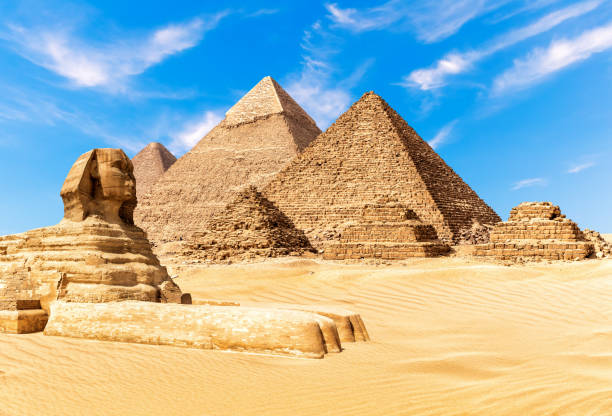
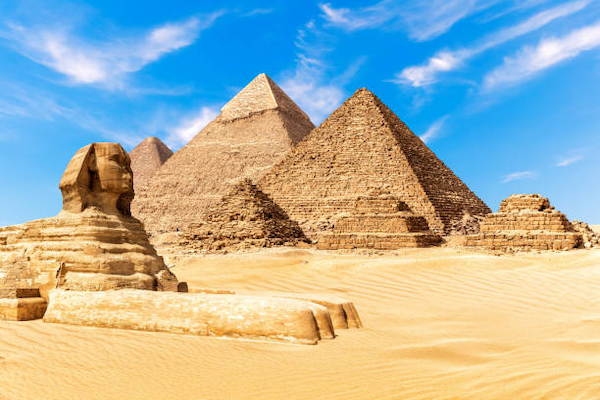
+ страница авторизации при нажатии на профиль и на мои маршруты + одинаковые размеры картинок

diff --git a/templates/base.html b/templates/base.html
@@ -12,7 +12,7 @@
  <body>
  <header>
      <nav class="navbar navbar-expand-lg navbar-light bg-light">
-  <a class="navbar-brand">TravelLife</a>
+  <a class="navbar-brand" href="/">TravelLife</a>
   <button class="navbar-toggler" type="button" data-toggle="collapse" data-target="#navbarSupportedContent" aria-controls="navbarSupportedContent" aria-expanded="false" aria-label="Toggle navigation">
     <span class="navbar-toggler-icon"></span>
   </button>

diff --git a/templates/plans.html b/templates/plans.html
@@ -4,6 +4,6 @@
 {% block content %}
 <div>
     <h1 align="center">У вас пока ни одного маршрута(</h1>
-    <a href="create_plan">Хотите создать?</a>
 </div>
+<a class="btn btn-primary" href="create_plan">Новый маршрут</a>
 {% endblock %}

diff --git a/main.py b/main.py
@@ -1,11 +1,13 @@
+import datetime
 from flask import Flask, render_template, redirect
 from data import db_session
 from data.users import User
-from flask_login import LoginManager, login_user, login_required, logout_user
+from flask_login import LoginManager, login_user, login_required, logout_user, current_user
 from forms.user import RegisterForm, LoginForm
 
 
 app = Flask(__name__)
+app.config['PERMANENT_SESSION_LIFETIME'] = datetime.timedelta(days=365)
 app.config['SECRET_KEY'] = 'yandexlyceum_secret_key'
 login_manager = LoginManager()
 login_manager.init_app(app)
@@ -51,15 +53,20 @@ def choose_countries():
 
 @app.route('/country/<name>')
 def country(name):
-    return render_template(f'{name}.html', title=str(name))
+    print(name)
+    return render_template(f'{name}.html', title=name)
 
 @app.route('/my_profile')
 def my_profile():
-    return 'Это профиль'
+    if current_user.is_authenticated:
+        return 'Это профиль'
+    return redirect("/login")
 
 @app.route('/my_plans')
 def my_plans():
-    return render_template('plans.html',  title='Маршруты')
+    if current_user.is_authenticated:
+        return render_template('plans.html',  title='Маршруты')
+    return redirect("/login")
 
 @app.route('/create_plan')
 def create_plan():
